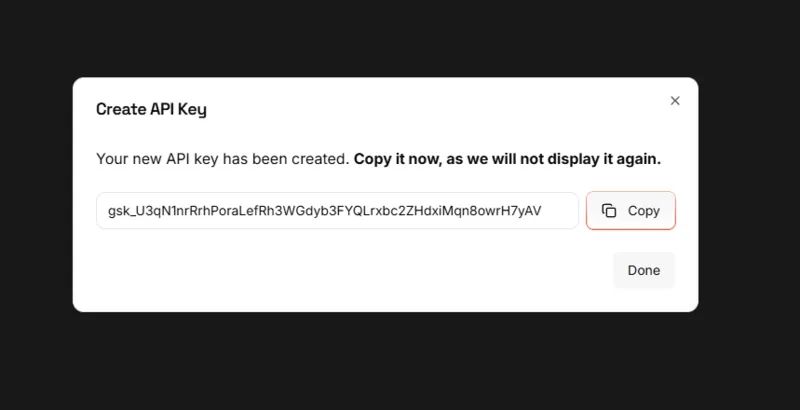
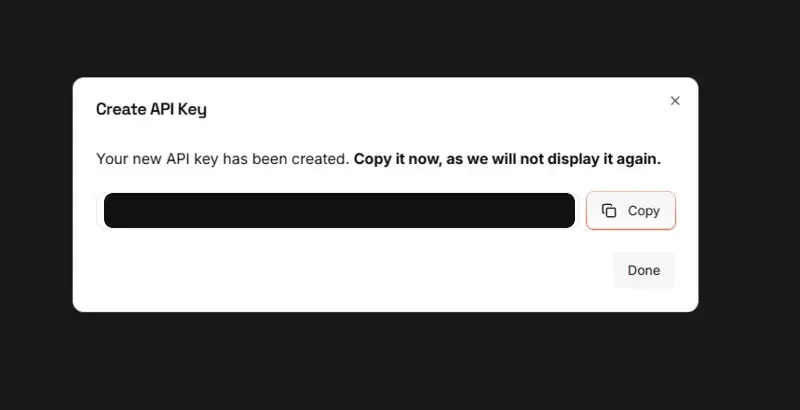
docs: update voice edit website guidance

Changed region(s): [[0.125, 0.4683, 0.7188, 0.5561]]

diff --git a/content/blog/en/voice-edit-guide.md b/content/blog/en/voice-edit-guide.md
@@ -35,7 +35,9 @@ Voice Edit uses a shortcut combination so it is harder to trigger by accident wh
 2. Hold `Ctrl+Shift+E`.
 3. Speak what you want changed.
 4. Release the shortcut.
-5. VoxPen replaces the selected text with the edited version.
+5. After you release the shortcut, VoxPen reads the still-selected text, asks AI to edit it, and replaces that selection with the edited version.
+
+Keep the original text selected until you release the shortcut. VoxPen briefly uses the clipboard to read the selection and then tries to restore your previous clipboard text.
 
 For example, select:
 
@@ -119,11 +121,15 @@ This release improves reliability for long recordings, unstable networks, and pr
 
 ### Nothing happened?
 
-Make sure you selected text first. Voice Edit starts by copying the current selection. If nothing is selected, VoxPen has nothing to edit.
+Make sure you selected text first, and that the selection is still active when you release the shortcut. Voice Edit copies the current selection after recording stops. If nothing is selected, VoxPen has nothing to edit.
 
 ### Does it work in browsers, Slack, VS Code, and Notion?
 
 Yes, as long as the app supports text selection, copy, and paste.
+
+### Does it work in Word, Vim, or a terminal?
+
+Yes, as long as the app keeps the selection active and normal copy/paste shortcuts work. VoxPen waits until you release the Voice Edit shortcut before copying the selected text, which reduces modifier-key conflicts in apps like Word, Vim, and terminals.
 
 ### How is this different from Listen to My Command?
 
